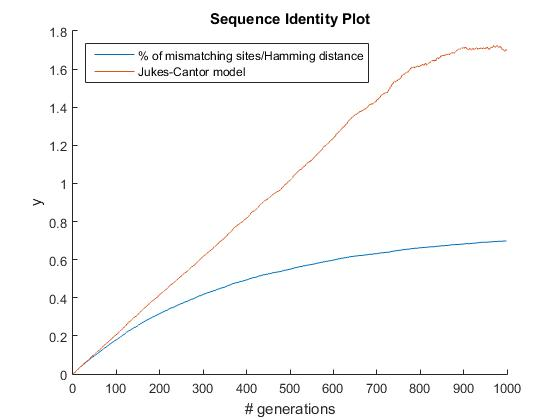
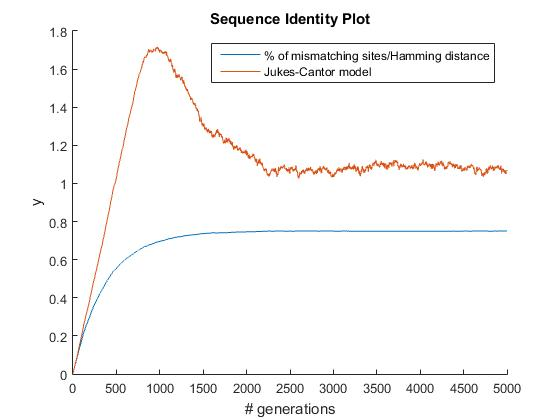
Novo plot com 5000 gerações

diff --git a/LAB3/makePlot.m b/LAB3/makePlot.m
@@ -15,7 +15,7 @@ y2 = A(:,3);
 figure; hold on
 a1 = plot(x,y1); M1 = '% of mismatching sites/Hamming distance';
 a2 = plot(x,y2); M2 = 'Jukes-Cantor model                     ';
-legend([a1; a2], [M1; M2],'Location','northwest');
+legend([a1; a2], [M1; M2]);
 
 title('Sequence Identity Plot')
 xlabel('# generations')
